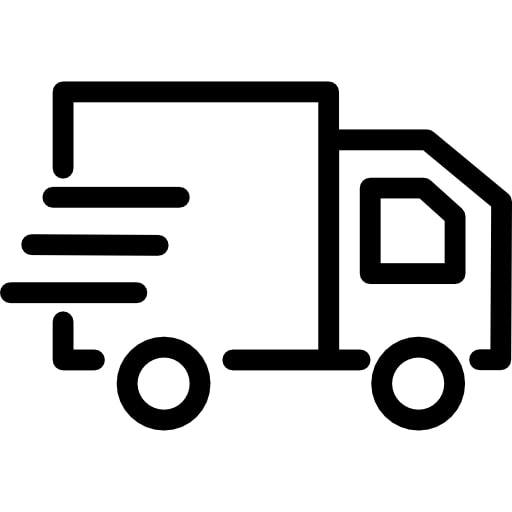
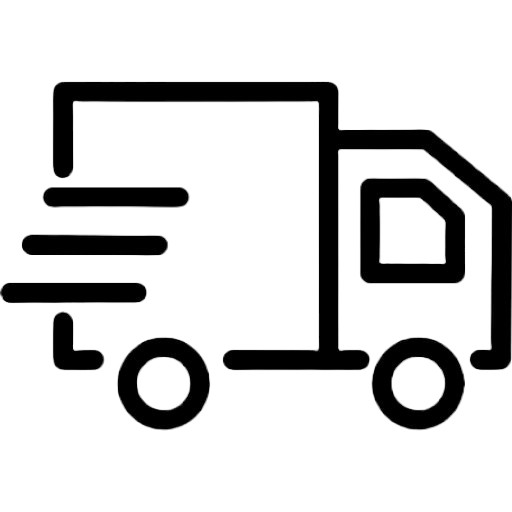
Commit 06/07/2023 cartoes

diff --git a/index.html b/index.html
@@ -164,21 +164,26 @@
     <section class="cartoes">
       <div class="domicilio">
         <p class="p-mark">
-          <mark>FAZEMOS DEMONSTRAÇÕES DAS FRANGRÂNCIAS EM DOMICILIO</mark>
-        </p>
+          <mark> FAZEMOS DEMONSTRAÇÕES DAS </mark>
+          </p>
+          <p class="p-mark2">
+            <mark>FRANGRÂNCIAS EM DOMICILIO </mark>
+            </p>
         <br>
-        <img width="100%" src="./assets/img/fotos capa/imagem decorativa.jpg" alt="imagem decorativa">
+        <img class="img-decorativa" width="100%" src="./assets/img/fotos capa/imagem decorativa.jpg" alt="imagem decorativa">
       </div>
       <div class="entrega">
-        <p><mark>Entregamos Sem Taxa em Duartina</mark></p>
-        <img width="100px" src="./assets/img/fotos capa/caminhao-de-entrega.jpg" alt="icone-caminhao">
-        <h3>PARCELAMOS NO CARTÃO EM ATÉ
-          <span>10X S/JUROS</span>
+        <div>
+        <p class="p-mark3"><mark>Entregamos Sem Taxa em Duartina</mark></p>
+        <img class="icon-caminhao"  src="./assets/img/fotos capa/caminhao-de-entrega.png" alt="icone-caminhao">
+        <h3 class="h3-parcela">PARCELAMOS NO CARTÃO EM ATÉ<br>
+          <span class="juros" >10X S/JUROS</span>
         </h3>
+      </div>
         <div width="100%" style="display: flex; flex-direction: row; flex-wrap: wrap;">
           <img src="./assets/img/fotos capa/mastercard.jpg" alt="mastercard">
           <img src="./assets/img/fotos capa/card.jpg" alt="">
-          <img style="flex-wrap: wrap;" src="./assets/img/fotos capa/visa.jpg" alt="">
+          <img style="flex-wrap: wrap;" src="./assets/img/fotos capa/visa (1).jpg" alt="">
           <img src="./assets/img/fotos capa/hipervard.jpg" alt="">
         </div>
       </div>
@@ -206,11 +211,11 @@
       100% Você</h1>
     <p>Nos siga nas redes sociais</p>
     <div>
-      <img src="./assets/img/fotos capa/intagram.png" alt="icon-insta">
-      <img src="./assets/img/fotos capa/facebook.png" alt="icon-facebook">
-      <img src="./assets/img/fotos capa/email.png" alt="icon-email">
-    </div>
-  </footer>
+      <a href="https://instagram.com/cesar_caesar_cesao?igshid=MzRlODBiNWFlZA=="><img src="./assets/img/fotos capa/intagram.png" alt="icon-insta"></a>
+      <a href="https://www.facebook.com/cesar.caesarcesao?mibextid=ZbWKwL"><img src="./assets/img/fotos capa/facebook.png" alt="icon-facebook"></a>
+      <a href="cesaoapple@gmail.com"><img src="./assets/img/fotos capa/email.png" alt="icon-email">
+      </div></a>
+      </footer>
 </body>
 <script src="./assets/js/index.js"></script>
 </html>

diff --git a/assets/css/index.css b/assets/css/index.css
@@ -264,6 +264,7 @@ h1, p{
   justify-content: center;
   background-color: var(--color-terceary);
   margin-bottom: 5.0rem;
+  font-family: var(--font-family-tercery);
 }
 
 .domicilio{
@@ -273,12 +274,56 @@ h1, p{
   justify-content: center;
   align-items: center;
   text-align: center;
-  gap: 1.8rem;
+  margin-bottom: 1.8rem;
 }
 
 .p-mark{
   margin-top: 5.0rem;
+ font-size: 1.4rem;
+ 
+ text-align: center;
 }
+
+.p-mark2{
+  font-size: 1.4rem;
+  margin-top: -1.0rem;
+}
+
+mark{
+ background-color: #010001;
+ color: white;
+ }
+
+ .img-decorativa{
+  margin-top: 2.0rem;
+ }
+
+ .entrega{
+  width: 100%;
+  
+}
+ .p-mark3{
+  margin-top: 5.0rem;
+  font-size: 1.4rem;
+  text-align: center;
+ }
+
+ .icon-caminhao{
+  margin-bottom: 4.3rem;
+  width:50%;
+  
+ }
+
+ .h3-parcela{
+  color: var(--color-primary);
+  margin-top: -2.0rem;
+ }
+
+ .juros{
+  color: var(---color-titleBrinde);
+  font-size: 1.5rem;
+  margin-bottom: 5.0rem;
+ }
 
 #menu a {
   display: block;
